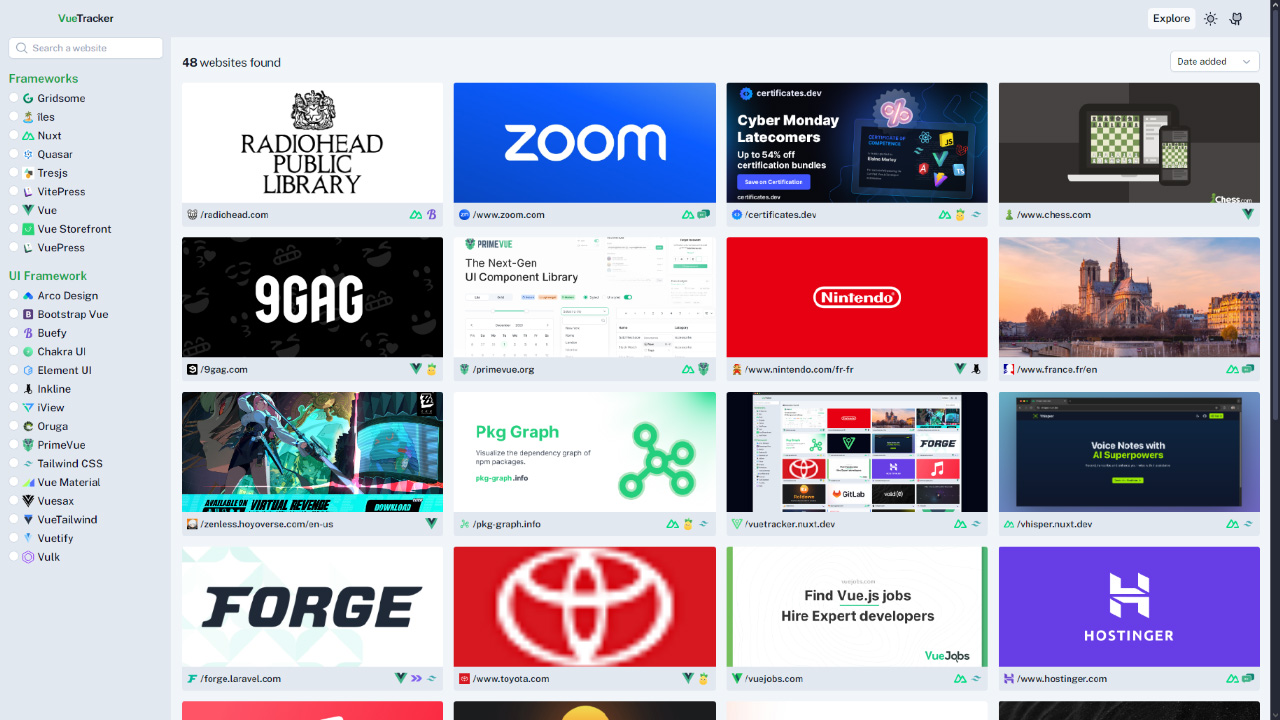
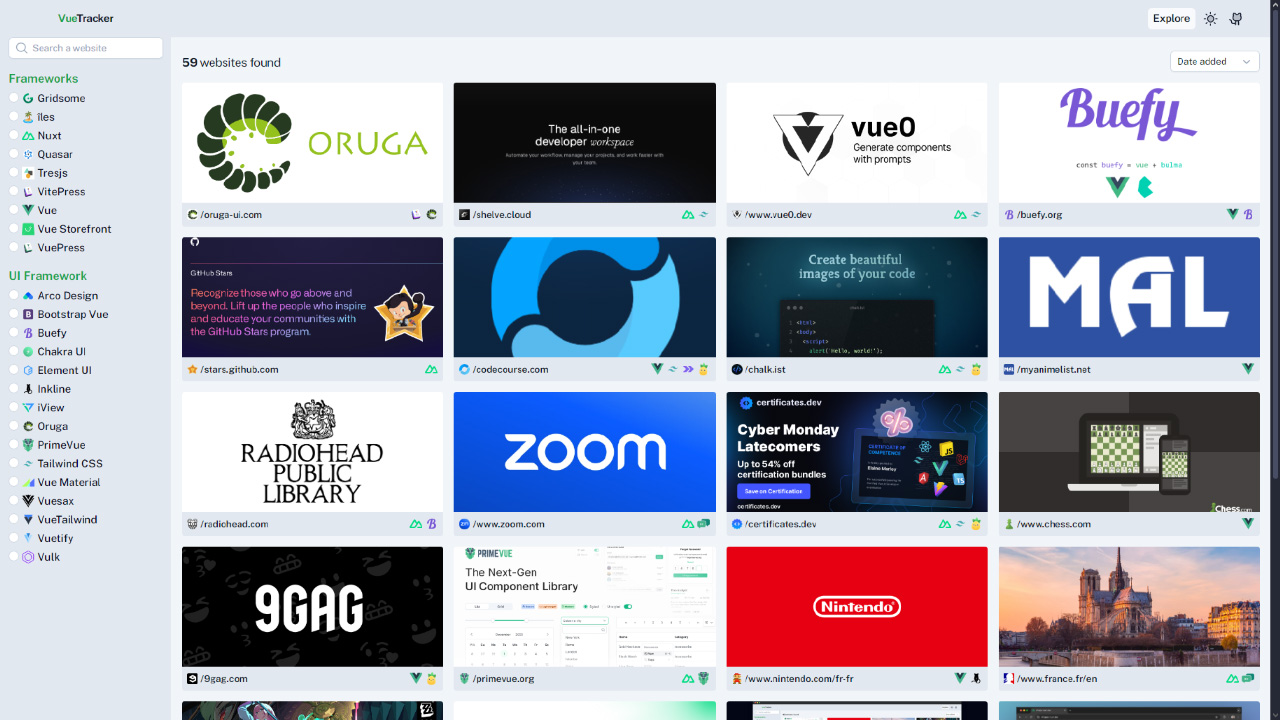
chore: update vuetracker project

diff --git a/app/utils/projects.js b/app/utils/projects.js
@@ -299,7 +299,7 @@ export const PROJECTS = [
     type: "web",
     name: "VueTracker",
     url: "https://vuetracker.nuxt.dev",
-    images: ["vuetracker-website.jpg", "vuetracker-website-2.jpg"],
+    images: ["vuetracker-website.jpg", "vuetracker-website-2.jpg", "vuetracker-website-3.jpg"],
     desc_es: "Descubre los plugins y tecnologías que potencian aplicaciones web hechas con Vue",
     desc_en: "Discover the plugins and technologies powering websites made with Vue.",
     start_month: 12,
